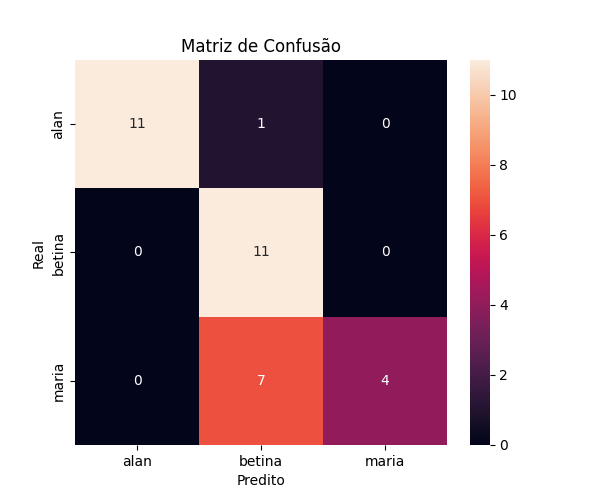
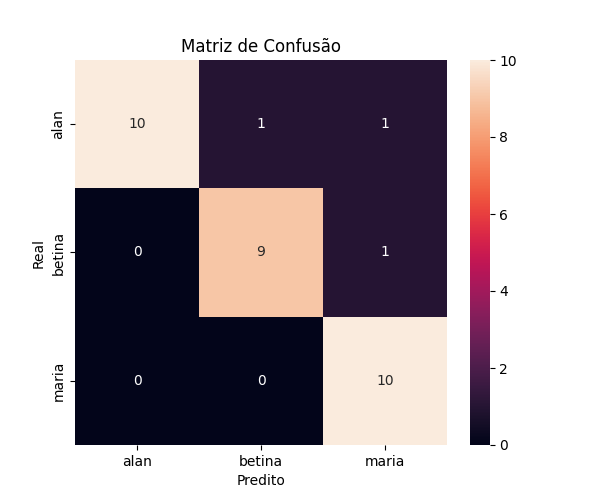
images

diff --git a/README.MD b/README.MD
@@ -150,3 +150,38 @@ Para os dados de teste foram obtidas fotos reais com as 3 pessoas juntas ou mais
 ![dataset-test.png](./assets/dataset-test.png)
 
 ![test-images.png](./assets/test-images.png)
+
+## Treino do modelo
+
+Saida do treino:
+
+```shell
+(tf) aecher@aecher-RYZEN:~/tf/projects/dio-challenge-neural-network-facial-recognize-challenge$ python train_model.py 
+2026-04-30 11:43:50.521994: I tensorflow/core/platform/cpu_feature_guard.cc:210] This TensorFlow binary is optimized to use available CPU instructions in performance-critical operations.
+To enable the following instructions: SSE3 SSE4.1 SSE4.2 AVX AVX2 FMA, in other operations, rebuild TensorFlow with the appropriate compiler flags.
+/home/aecher/tf/lib/python3.12/site-packages/keras/src/export/tf2onnx_lib.py:8: FutureWarning: In the future `np.object` will be defined as the corresponding NumPy scalar.
+  if not hasattr(np, "object"):
+GPU detectada: [PhysicalDevice(name='/physical_device:GPU:0', device_type='GPU')]
+Classes: ['alan', 'betina', 'maria']
+alan: 200 treino, 12 validacao
+betina: 201 treino, 10 validacao
+maria: 193 treino, 10 validacao
+WARNING: All log messages before absl::InitializeLog() is called are written to STDERR
+I0000 00:00:1777560232.222148  140149 gpu_device.cc:2020] Created device /job:localhost/replica:0/task:0/device:GPU:0 with 5196 MB memory:  -> device: 0, name: NVIDIA GeForce RTX 5060, pci bus id: 0000:07:00.0, compute capability: 12.0
+Training config: {'head_lr': 2e-05, 'fine_tune_lr': 2e-05, 'fine_tune_layers': 40, 'dropout': [0.15, 0.15], 'early_stop_patience': 20, 'reduce_lr_patience': 20}
+Class weights: {'alan': 0.9, 'betina': 1.2, 'maria': 1.4}
+
+Predicoes por classe: {'alan': 10, 'betina': 10, 'maria': 12}
+
+=== Classification Report ===
+
+              precision    recall  f1-score   support
+
+        alan       1.00      0.83      0.91        12
+      betina       0.90      0.90      0.90        10
+       maria       0.83      1.00      0.91        10
+
+    accuracy                           0.91        32
+   macro avg       0.91      0.91      0.91        32
+weighted avg       0.92      0.91      0.91        32
+```
